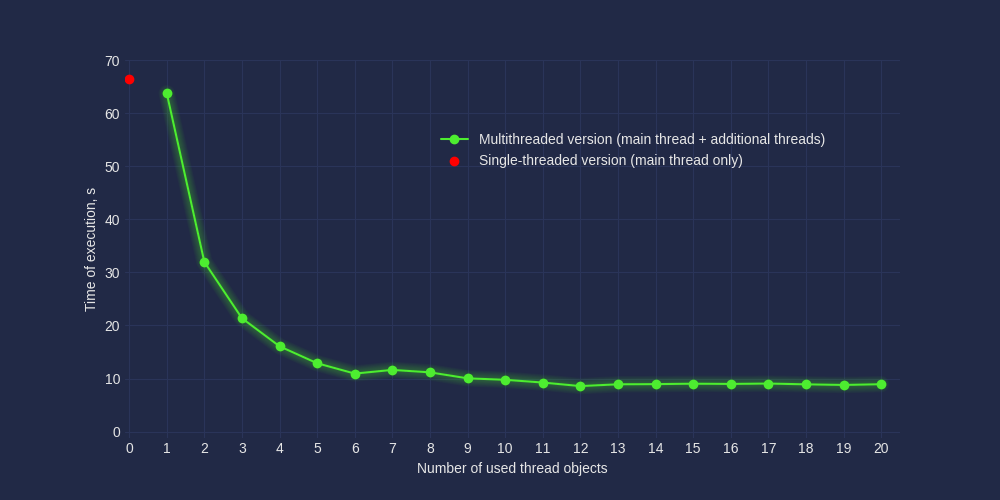
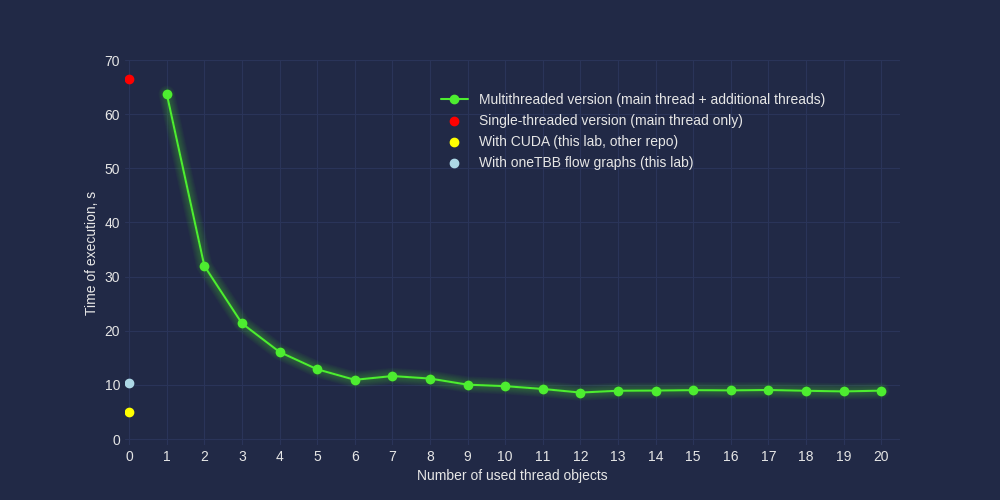
Results

diff --git a/plotter.py b/plotter.py
@@ -28,13 +28,21 @@ data = {
 data_concurrent_x = 0
 data_concurrent_y = 66442290
 
+data_cuda_x = 0
+data_cuda_y = 4974442
+
+data_flow_graphs_x = 0
+data_flow_graphs_y = 10258938
+
 plt.style.use("cyberpunk")
 
 fig1 = plt.figure("Figure_1", figsize=(10, 5))
 ax1 = fig1.add_subplot(1, 1, 1)
 
 ax1.plot(data.keys(), np.array(list(data.values())) / 10**6, marker='o', color='#4ded30')
-ax1.scatter(0, data_concurrent_y / 10**6, color='red')
+ax1.scatter(data_concurrent_x, data_concurrent_y / 10**6, color='red')
+ax1.scatter(data_cuda_x, data_cuda_y / 10**6, color='yellow')
+ax1.scatter(data_flow_graphs_x, data_flow_graphs_y / 10**6, color='#add8e6')
 ax1.set_xlim(-0.11, 20.5)
 ax1.set_ylim(-1.1, 70)
 ax1.xaxis.set_major_locator(MultipleLocator(1))
@@ -42,7 +50,9 @@ ax1.yaxis.set_major_locator(MultipleLocator(10))
 ax1.set_xlabel("Number of used thread objects")
 ax1.set_ylabel("Time of execution, s")
 ax1.legend(labels=["Multithreaded version (main thread + additional threads)",
-                   'Single-threaded version (main thread only)'],
+                   'Single-threaded version (main thread only)',
+                   'With CUDA (this lab, other repo)',
+                   'With oneTBB flow graphs (this lab)'],
            loc=[0.4, 0.7])
 
 mplcyberpunk.make_lines_glow()

diff --git a/runner.py b/runner.py
@@ -34,7 +34,6 @@ PATH_TO_EXECUTABLE = "./bin/integrate_task_4"
 CONFIG_FILE_DICT = {
     'abs_err': 0.0000005,
     'rel_err': 0.00002,
-    'n_threads': 0,
     'x_start': -10,
     'x_end': 10,
     'y_start': -10,

diff --git a/readme.md b/readme.md
@@ -1,4 +1,4 @@
-# Lab work 2: Parallelization of evaluation of integral of a given function
+# Lab work 2: Parallelization of evaluation of integral of a given function using oneAPI TBB flow graphs
 Author: <a href="https://github.com/bogdanmagometa">Bohdan Mahometa</a><br>
 Variant: 4 (Langermann function)
 
@@ -8,8 +8,9 @@ The following tools need to be available in order to use the project:
 - GCC
 - Cmake and Make
 - Boost library (Boost::program_options Boost::system are used in the project)
-- pip
-- Python 3
+- oneAPI TBB
+- Python 3 (if you want to use scripts)
+- `numpy`, `matplotlib` and `mplcyberpunk` Python packages if you want to run `plotter.py`
 
 ### Compilation
 
@@ -39,7 +40,6 @@ The content of ```<path-to-configuration-file>``` should be in TOML format with 
 set of specified arguments:
 - abs_err - desired absolute error
 - rel_err - desired relative error
-- n_threads - number of threads. 0 means single-threaded version
 - x_start - left bound of integration along x axis
 - x_end - right bound of integration along x axis
 - y_start - lower bound of integration along y axis
@@ -78,19 +78,27 @@ haven't been fixed by me deliberately.
 
 ### Results
 
-I ran the executable several times for each value of n_threads argument from 0 through 20.
-The following were other values of arguments in configuration file:
-- abs_err = 0.0000005
-- rel_err = 0.00002
-- x_start = -10
-- x_end = 10
-- y_start = -10
-- y_end = 10
-- init_steps_x = 100
-- init_steps_y = 100
-- max_iter = 10
+I ran the executable several times with the following configuration file:
+```toml
+abs_err = 0.0000005
+rel_err = 0.00002
+x_start = -10
+x_end = 10
+y_start = -10
+y_end = 10
+init_steps_x = 100
+init_steps_y = 100
+max_iter = 10
+```
 
-I got the following relation between number of threads and execution time:
+Among all runs, the minimum execution time was `10258938` seconds.
+
+The following chart compares 
+<b style="color: #add8e6;">oneAPI TBB flow graphs impelementation</b> vs
+<b style="color: yellow;">CUDA implementation</b> vs
+<b style="color: #4cec30;">implementation with thread objects</b> vs
+<b style="color: red;">concurrent implementation</b>:
+
 
 ![Relationship between ](./img/time_plot.png)
 
